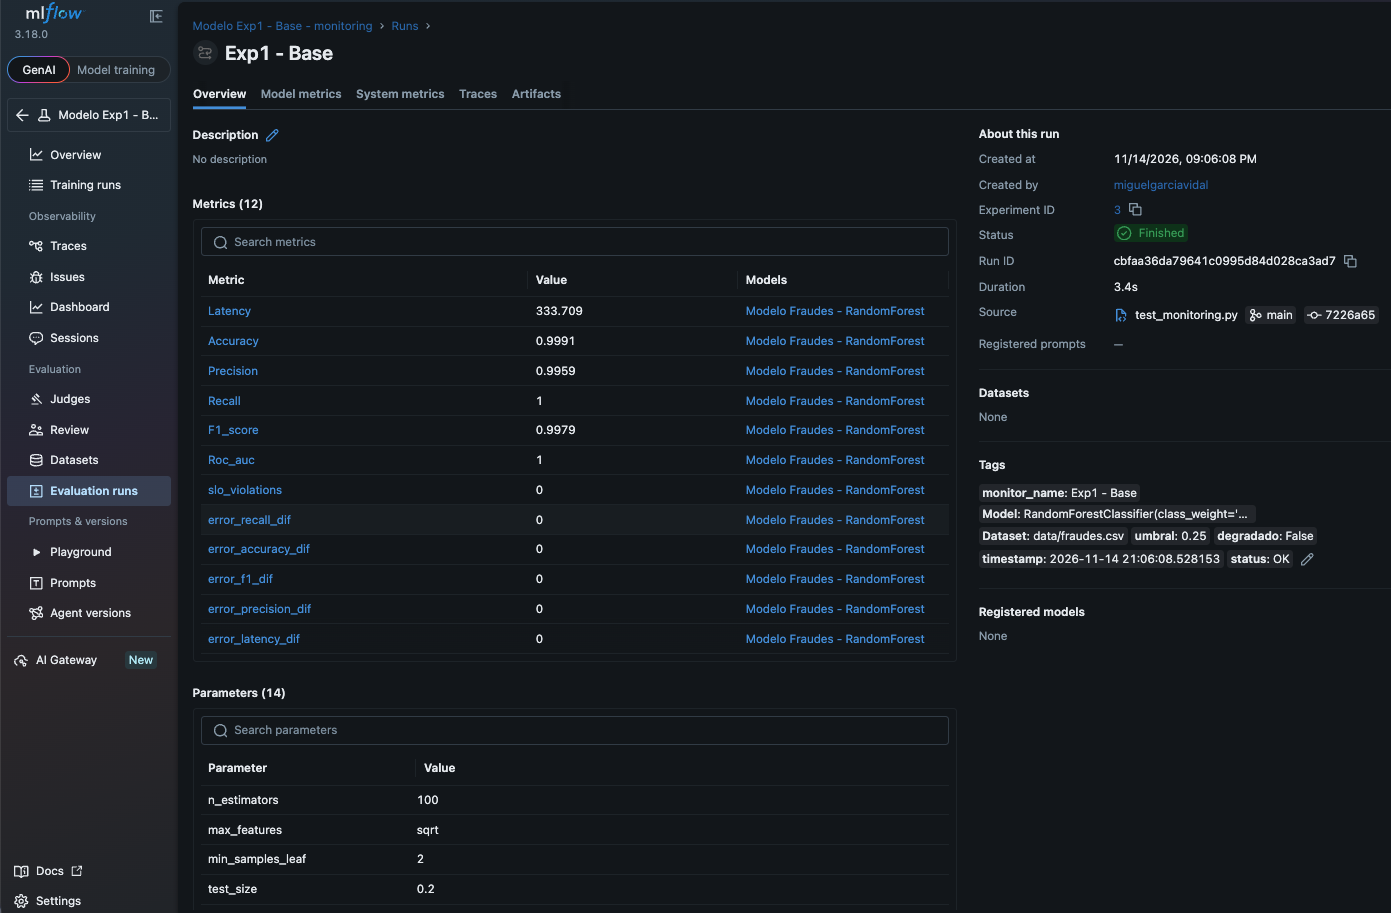
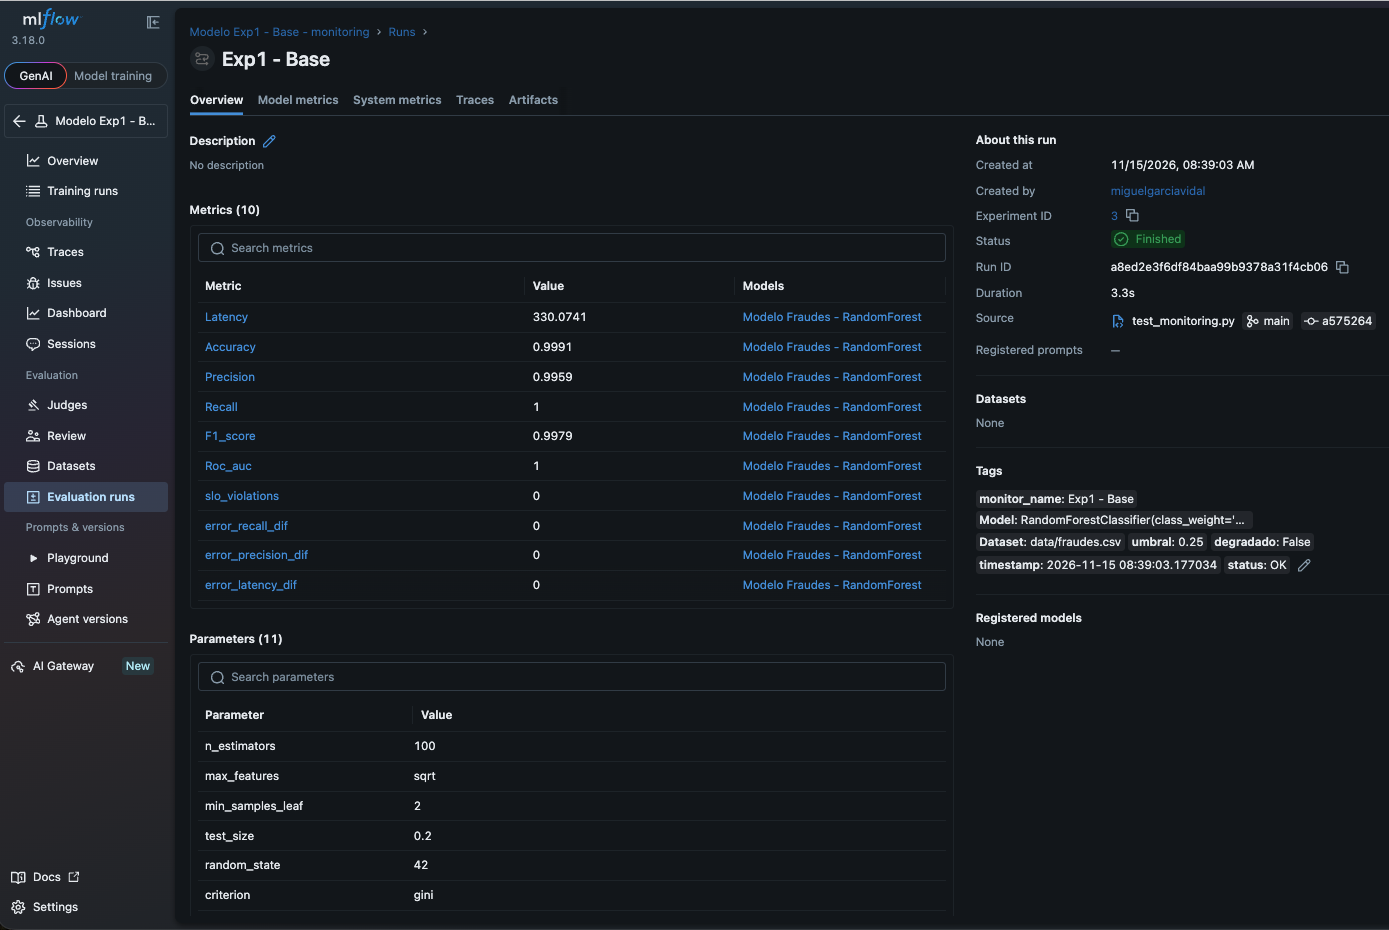
Actividad 8: CCorrecciones al generar experimentos. Indicar las métricas finales a utilizar. Documentar

diff --git a/Actividad-08/Fraudes.py b/Actividad-08/Fraudes.py
@@ -135,11 +135,8 @@ class MonitorModel:
         self.logger = logging.getLogger("MonitorModel")
         self.slo = {
             "latency_max_mx": 500,
-            "accuracy_min": 0.90,
             "precision_min": 0.95,
             "recall_min": 0.98,
-            "f1_min": 0.95,
-            "roc_auc_min": 0.95,
         }
 
 
@@ -150,21 +147,12 @@ class MonitorModel:
         if metricas_nuevas["Latency"] > self.slo["latency_max_mx"]:
             latency = metricas_nuevas["Latency"]
             errors["Latencia"] = f"Latencia {latency} debe ser menor de {self.slo['latency_max_mx']}"
-        if metricas_nuevas["Accuracy"] < self.slo["accuracy_min"]:
-            accuracy = metricas_nuevas["Accuracy"]
-            errors["Accuracy"] = f"Accuracy {accuracy} debe ser mayor de {self.slo['accuracy_min']}"
         if metricas_nuevas["Precision"] < self.slo["precision_min"]:
             precision = metricas_nuevas["Precision"]
             errors["Precision"] = f"Precision {precision} debe ser mayor de {self.slo['precision_min']}"
         if metricas_nuevas["Recall"] < self.slo["recall_min"]:
             recall = metricas_nuevas["Recall"]
             errors["Recall"] = f"Recall {recall} debe ser mayor de {self.slo['recall_min']}"
-        if metricas_nuevas["F1_score"] < self.slo["f1_min"]:
-            f1 = metricas_nuevas["F1_score"]
-            errors["F1"] = f"F1-score {f1} debe ser mayor de {self.slo['f1_min']}"
-        if metricas_nuevas["Roc_auc"] < self.slo["roc_auc_min"]:
-            roc_auc = metricas_nuevas["Roc_auc"]
-            errors["Roc_auc"] = f"ROC_AUC {roc_auc} debe ser mayor de {self.slo['roc_auc_min']}"
         return errors
 
     def execute_monitoring(self, monitor_name:str, umbral:float=0.25, degrada:bool=False, normal_degradado_simulation:float=3.0, simulate_time_out:bool=False):
@@ -203,19 +191,14 @@ class MonitorModel:
                 "criterion": self.modelo.criterion,
                 "max_depth": self.modelo.max_depth,
                 "class_weight": self.modelo.class_weight,
-                "slo_accuracy_min": self.slo["accuracy_min"],
                 "slo_precision_min": self.slo["precision_min"],
                 "slo_recall_min": self.slo["recall_min"],
-                "slo_f1_min": self.slo["f1_min"],
-                "slo_roc_auc_min": self.slo["roc_auc_min"],
                 "slo_latency_max_mx": self.slo["latency_max_mx"],
             })
             # -- Métricas --
         mlflow.log_metrics(metricas)
         mlflow.log_metric("slo_violations", len(errors))
         mlflow.log_metric("error_recall_dif",max(0,self.slo["recall_min"]-metricas["Recall"]))
-        mlflow.log_metric("error_accuracy_dif", max(0, self.slo["accuracy_min"] - metricas["Accuracy"]))
-        mlflow.log_metric("error_f1_dif", max(0, self.slo["f1_min"] - metricas["F1_score"]))
         mlflow.log_metric("error_precision_dif", max(0, self.slo["precision_min"] - metricas["Precision"]))
         mlflow.log_metric("error_latency_dif", max(0, metricas["Latency"] - self.slo["latency_max_mx"]))
             # -- Logs --
@@ -229,7 +212,7 @@ class MonitorModel:
 
                 if 'Latencia' in errors:
                     self.runbook_alta_latencia(errors)
-                if 'Accuracy' in errors or 'F1' in errors or 'Precision' in errors or 'Recall' in errors or 'Roc_auc' in errors:
+                if 'Precision' in errors or 'Recall' in errors:
                     y_train = self.modelo.y_train
                     self.runbook_reentrena_modelo(X_train, y_train, X_test, y_test, errors)
         else:

diff --git a/Actividad-08/test_monitoring.py b/Actividad-08/test_monitoring.py
@@ -1,8 +1,9 @@
 from Fraudes import ModeloFraudes, MonitorModel
 
 if __name__ == '__main__':
-
+    print("Modelo de Fraudes")
     try:
+        print("Exp1 - Base")
         model = ModeloFraudes(path_dataset="data/fraudes.csv", test_size=0.2, target="IS_FRAUD", name="Exp1 - Base")
         model.train()
         monitor = MonitorModel(model)
@@ -10,6 +11,7 @@ if __name__ == '__main__':
     except Exception as e:
         print(e)
     try:
+        print("Exp2 - Latencia")
         model = ModeloFraudes(path_dataset="data/fraudes.csv", test_size=0.2, target="IS_FRAUD", name="Exp2 - Latencia")
         model.train()
         monitor = MonitorModel(model)
@@ -17,14 +19,15 @@ if __name__ == '__main__':
     except Exception as e:
         print(e)
     try:
+        print("Exp3 - DataDrift")
         model = ModeloFraudes(path_dataset="data/fraudes.csv", test_size=0.2, target="IS_FRAUD", name="Exp3 - DataDrift")
-        model.train()
         model.train()
         monitor = MonitorModel(model)
         monitor.execute_monitoring(monitor_name="Exp3 - DataDrift", degrada=True, normal_degradado_simulation=0.95)
     except Exception as e:
         print(e)
     try:
+        print("Exp4 - Umbral")
         model = ModeloFraudes(path_dataset="data/fraudes.csv", test_size=0.2, target="IS_FRAUD", name="Exp4 - Umbral")
         model.train()
         monitor = MonitorModel(model)

diff --git a/Actividad-08/README.md b/Actividad-08/README.md
@@ -27,6 +27,10 @@ Actividad-08/
     ├── mlflow_Exp2 - Latencia.png
     ├── mlflow_Exp3 - DataDrift.png
     ├── mlflow_Exp4 - Umbral.png
+    ├── mlflow_Experiments.png
+    ├── mlflow_Run_DataDrift.png
+    ├── mlflow_Run_Latencia.png
+    ├── mlflow_Run_Umbral.png
 └── results/
     ├── classification_report.json  #Reporte de la clasificación del último entrenamiento del modelo
     ├── confusion_matrix.png        #Matriz de confusiíon del último entrenamiento realizado del modelo
@@ -81,12 +85,10 @@ Abre `http://localhost:5000` para ver el dashboard con todos los runs, métricas
 
 | Métrica | Descripción | SLO |
 |---------|-------------|-----|
-| `Accuracy` | Sensibilidad del modelo | ≥ 0.90 |
 | `Precision` | Sensibilidad del modelo | ≥ 0.95 |
 | `Recall` | Sensibilidad del modelo | ≥ 0.98 |
-| `F1 score` | Sensibilidad del modelo | ≥ 0.95 |
 | `latencia_ms` | Tiempo de respuesta por predicción | ≤ 500ms |
-| `errors` | Número de SLOs con error | 0 |
+| `slo_violations` | Número de SLOs con error | 0 |
 
 ### Logs
 
@@ -126,11 +128,8 @@ Cada run registra automáticamente:
 ```python
 self.slo = {
             "latency_max_mx": 500,
-            "accuracy_min": 0.90,
             "precision_min": 0.95,
             "recall_min": 0.98,
-            "f1_min": 0.95,
-            "roc_auc_min": 0.95,
 }
 ```
 
@@ -138,7 +137,7 @@ self.slo = {
 
 | Severidad | Trigger | Runbook | Tiempo respuesta |
 |-----------|---------|---------|-----------------|
-| **ALTA** | 'Accuracy' < 0.90 o 'F1' < 0.95 o 'Precision' < 0.95 o 'Recall' < 0.98 o 'Roc_auc' < 0.95: | RUNBOOK-001 Reentrenamiento | 5-10 min |
+| **ALTA** | Precision < 0.95 o Recall < 0.98 | RUNBOOK-001 Reentrenamiento | 5-10 min |
 | **MEDIA** | Latencia > 500ms | RUNBOOK-002 ALTA latencia | 2-5 min |
 
 ### Lógica de detección automática
@@ -156,7 +155,7 @@ El sistema verifica SLOs después de cada predicción y registra violaciones en 
 
                 if 'Latencia' in errors:
                     self.runbook_alta_latencia(errors)
-                if 'Accuracy' in errors or 'F1' in errors or 'Precision' in errors or 'Recall' in errors or 'Roc_auc' in errors:
+                if 'Precision' in errors or 'Recall' in errors:
                     y_train = self.modelo.y_train
                     self.runbook_reentrena_modelo(X_train, y_train, X_test, y_test, errors)
 ```
@@ -173,7 +172,7 @@ El Exp3 `Data Drift` muestra `Precision: 0.9327` por debajo del SLO de 0.95, con
 
 ### Vista general de incidentes simulados
 
-![Evaluation Runs](evidencias/mlflow_Run_Latencia.png)
+![Evaluation Runs](evidencias/mlflow_Experiments.png)
 
 ---
 
@@ -182,15 +181,20 @@ El Exp3 `Data Drift` muestra `Precision: 0.9327` por debajo del SLO de 0.95, con
 **Descripción:** Se simula Alta latencia al llamar al modelo, para ello se añade un tiempo de espera de 1.5s
 
 **Impacto detectado:**
-- `Latencia: 1850.0569 > SLO 500ms`
+- `Latencia: 1851.1329 > SLO 500ms`
 - `slo_status: VIOLATION`
+- `error_latency_dif = 1351.1329`
 - `causa: carga_excesiva`
 
-**Runbook ejecutado:** RUNBOOK-001 Alta latencia
+**Runbook ejecutado:** RUNBOOK-002 Alta latencia
 
 **Resultado:** Latencia recuperada
 
 ![Incidente Alta Latencia](evidencias/mlflow_Exp2%20-%20Latencia.png)
+
+**Log del modelo**
+
+![Log Exp2](evidencias/Exp2_Latencia_log.png)
 
 ---
 
@@ -200,22 +204,53 @@ El Exp3 `Data Drift` muestra `Precision: 0.9327` por debajo del SLO de 0.95, con
 
 **Impacto detectado:**
 - Precision baja de `0.9959` a `0.9327` por debajo del SLO de `0.95`.
-- Variación de precisión de `0.01729999`
+- `error_precision_dif: 0.01729999`
 - `slo_status: VIOLATION`
 
-**Runbook ejecutado:** RUNBOOK-002 REENTRENA
+**Runbook ejecutado:** RUNBOOK-001 REENTRENA
 
 **Resultado:** Modelo reentrenado con los nuevos datos, recuperando los SLOs:
-`{'Latency': 328.5151, 'Accuracy': 0.9991, 'Precision': 0.9959, 'Recall': 1.0, 'F1_score': 0.9979, 'Roc_auc': 1.0}`
+- `Latency: 328.5151`
+- `Precision': 0.9959`
+- `Recall': 1.0`
 
 ![Incidente Modelo Degradado](evidencias/mlflow_Exp3%20-%20DataDrift.png)
+**Log del modelo**
+
+![Log Exp2](evidencias/Exp3_DataDrift_log.png)
 
 ---
 
 ## 4. Documentación de Respuesta Automatizada
 
 ### Catálogo de Runbooks
-#### RUNBOOK-001 — Escalamiento del servicio
+
+#### RUNBOOK-001 — Reentrenamiento del modelo
+```
+Trigger:    Precision < 0.95 o Recall < 0.98 
+Severidad:  ALTA
+Tiempo:     2-5 minutos
+
+Pasos:
+1. Detectar violación de SLO
+2. Descargar dataset actualizado
+3. Reentrenar modelo con parámetros optimizados
+4. Evaluar que el nuevo modelo cumpla los SLOs
+5. Reemplazar modelo en producción
+6. Registrar evento en log de incidentes
+```
+#### Estrategia de detección de Data Drift
+
+El sistema detecta data drift monitoreando la degradación de métricas:
+
+| Indicador | Condición de alerta |
+|-----------|---------------------|
+|Caida de Precision| Por debajo de SLO 0.95|
+|Caida de Recall| Por debajo de SLO 0.98|
+
+Cuando se detecta drift, se activa automáticamente RUNBOOK-001 para reentrenar el modelo con datos actualizados.
+
+#### RUNBOOK-002 — Escalamiento del servicio
 ```
 Trigger:    Latencia > 500ms
 Severidad:  MEDIA
@@ -228,35 +263,16 @@ Pasos:
 4. Verificar recuperación de SLOs latencia
 5. Registrar evento
 ```
+#### Estrategia de detección de Alta Latencia
 
-#### RUNBOOK-002 — Reentrenamiento del modelo
-```
-Trigger:    'Accuracy' < 0.90 o 'F1' < 0.95 o 'Precision' < 0.95 o 'Recall' < 0.98 o 'Roc_auc' < 0.95: 
-Severidad:  ALTA
-Tiempo:     5-10 minutos
-
-Pasos:
-1. Detectar violación de SLO
-2. Descargar dataset actualizado
-3. Reentrenar modelo con parámetros optimizados
-4. Evaluar el nuevo modelo cumple SLOs
-5. Reemplazar modelo en producción
-6. Registrar evento en log de incidentes
-```
-#### Estrategia de detección de Data Drift
-
-El sistema detecta data drift monitoreando la degradación de métricas:
+El sistema detecta Alta latencia monitoreando la degradación de métricas:
 
 | Indicador | Condición de alerta |
 |-----------|---------------------|
-| Caída de Accuracy | Por debajo de SLO 0.90|
-| Caída de recall | Por debajo de SLO 0.80 |
-|Caida de F1 | Por debajo de SLO 0.95|
-|Caida de Precision| Por debajo de SLO 0.95|
-|Caida de Recall| Por debajo de SLO 0.98|
-|Caida de Roc_Auc| Por debajo de SLO 0.95| 
+|Latencia| Superior de SLO 500ms|
 
-Cuando se detecta drift, se activa automáticamente RUNBOOK-002 para reentrenar el modelo con datos actualizados.
+Cuando se detecta Alta latencia, se activa automáticamente RUNBOOK-002 para un crecimiento horizontal en infraestructura.
+
 
 ### Flujo completo de respuesta automatizada
 
@@ -270,8 +286,8 @@ Verificación de SLOs
 ¿Violación detectada?
     ├── NO → Log "OK" en MLflow → Continuar
     └── SÍ → Clasificar severidad
-                ├── ALTA    → RUNBOOK-002 Reentrenamiento
-                └── MEDIA   → RUNBOOK-001 Alta Latencia
+                ├── ALTA    → RUNBOOK-001 Reentrenamiento
+                └── MEDIA   → RUNBOOK-002 Alta Latencia
                         ↓
                 Verificar recuperación
                         ↓
@@ -284,10 +300,10 @@ Verificación de SLOs
 
 | Run | Precision |  Latencia | SLO Status |Precision Post Corrección|Latencia Post Corrección|
 |-----|--------|---------------|------------|-----|-----|
-| Exp1 - Base  | 0.9959 | 333.709ms | ⚠ Especificidad |N/A|N/A|
-| Exp2 - Latencia | 0.9959 | 1850.0569ms | ✅ Resuelto |N/A|357ms|
-| Exp3 - DataDrift |  0.9327 | 339.3238 | ✅ Resuelto |0.9959|N/A|
-| Exp4 - Umbral | 0.9991|323.096|⚠ Especificidad|N/A|N/A|
+| Exp1 - Base  | 0.9959 | 333.709ms | OK |N/A|N/A|
+| Exp2 - Latencia | 0.9959 | 1850.0569ms | ✅ Error Resuelto |N/A|357ms|
+| Exp3 - DataDrift |  0.9327 | 339.3238 | ✅ Error Resuelto |0.9959|N/A|
+| Exp4 - Umbral | 0.9991|323.096|OK|N/A|N/A|
 
 
 
